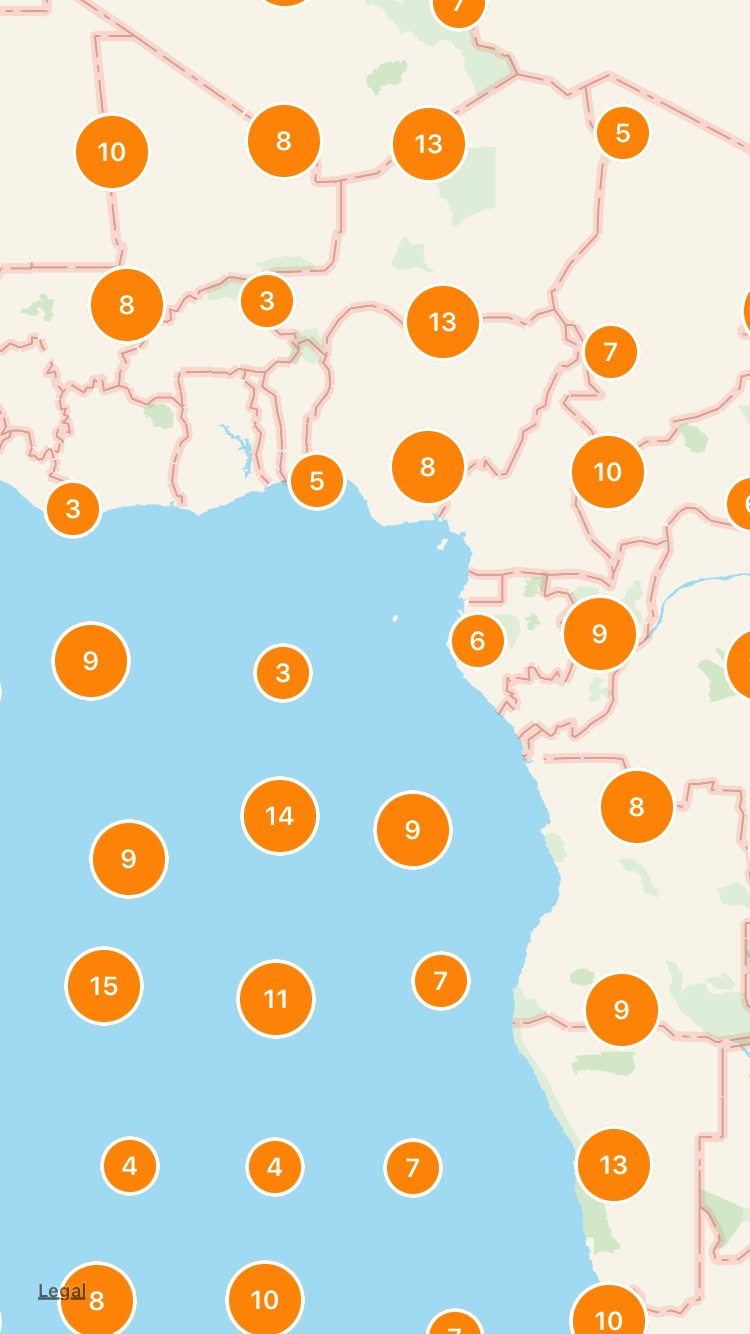
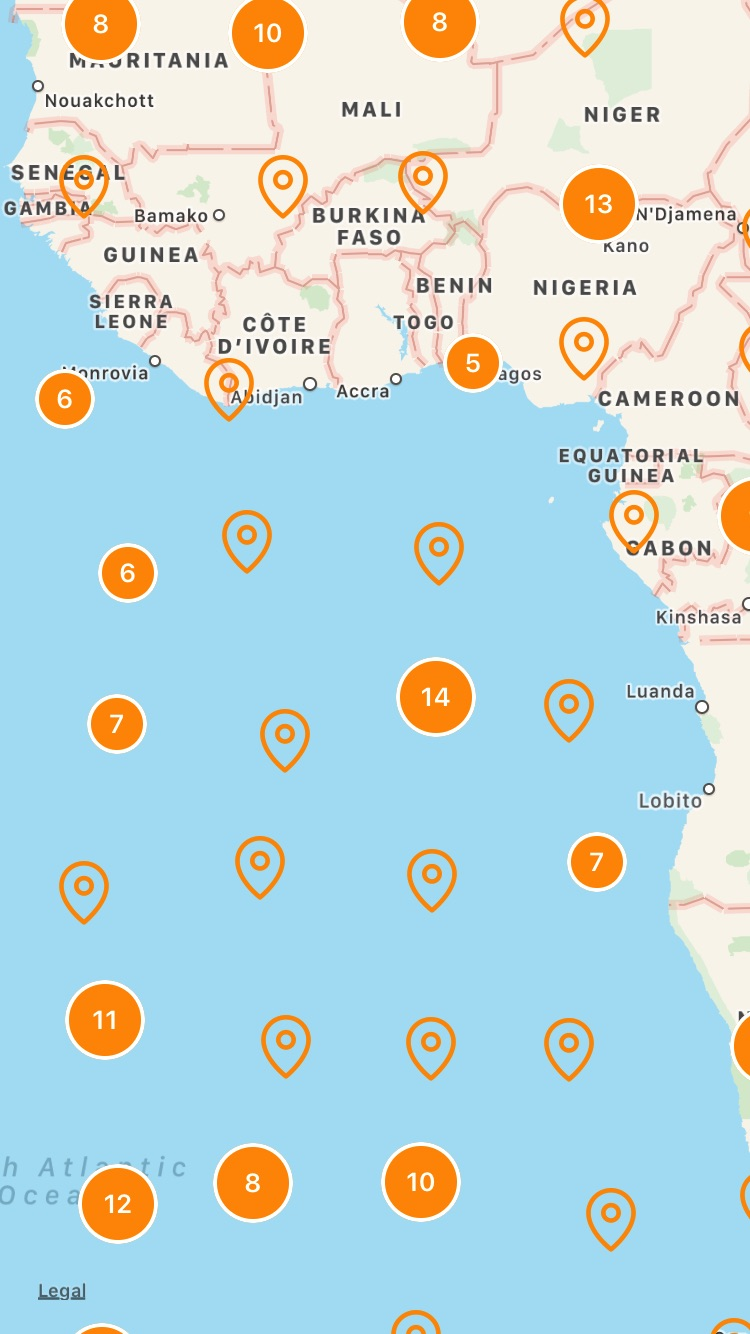
1.0.3

diff --git a/Example/ViewController.swift b/Example/ViewController.swift
@@ -19,9 +19,15 @@ class ViewController: UIViewController {
     override func viewDidLoad() {
         super.viewDidLoad()
         
-        let annotations: [Annotation] = (0..<1000).map { _ in
+        let annotations: [Annotation] = (0..<1000).map { i in
             let annotation = Annotation()
             annotation.coordinate = CLLocationCoordinate2D(latitude: drand48() * 80 - 40, longitude: drand48() * 80 - 40)
+            let color = UIColor(red: 255/255, green: 149/255, blue: 0/255, alpha: 1)
+            if i % 2 == 0 {
+                annotation.type = .color(color, radius: 25)
+            } else {
+                annotation.type = .image(UIImage(named: "pin")?.filled(with: color))
+            }
             return annotation
         }
         manager.add(annotations)
@@ -35,11 +41,15 @@ extension ViewController: MKMapViewDelegate {
     
     func mapView(_ mapView: MKMapView, viewFor annotation: MKAnnotation) -> MKAnnotationView? {
         let color = UIColor(red: 255/255, green: 149/255, blue: 0/255, alpha: 1)
-        if annotation is ClusterAnnotation {
+        if let annotation = annotation as? ClusterAnnotation {
             let identifier = "Cluster"
             var view = mapView.dequeueReusableAnnotationView(withIdentifier: identifier)
             if view == nil {
-                view = ClusterAnnotationView(annotation: annotation, reuseIdentifier: identifier, type: .color(color: color, radius: 25))
+                if let annotation = annotation.annotations.first as? Annotation, let type = annotation.type {
+                    view = ClusterAnnotationView(annotation: annotation, reuseIdentifier: identifier, type: type)
+                } else {
+                    view = ClusterAnnotationView(annotation: annotation, reuseIdentifier: identifier, type: .color(color, radius: 25))
+                }
             } else {
                 view?.annotation = annotation
             }
@@ -80,6 +90,26 @@ extension ViewController: MKMapViewDelegate {
             manager.reload(mapView, visibleMapRect: zoomRect)
             mapView.setVisibleMapRect(zoomRect, animated: true)
         }
+    }
+    
+}
+
+extension UIImage {
+    
+    func filled(with color: UIColor) -> UIImage {
+        UIGraphicsBeginImageContextWithOptions(size, false, scale)
+        color.setFill()
+        guard let context = UIGraphicsGetCurrentContext() else { return self }
+        context.translateBy(x: 0, y: size.height)
+        context.scaleBy(x: 1.0, y: -1.0);
+        context.setBlendMode(CGBlendMode.normal)
+        let rect = CGRect(x: 0, y: 0, width: size.width, height: size.height)
+        guard let mask = self.cgImage else { return self }
+        context.clip(to: rect, mask: mask)
+        context.fill(rect)
+        let newImage = UIGraphicsGetImageFromCurrentImageContext()!
+        UIGraphicsEndImageContext()
+        return newImage
     }
     
 }

diff --git a/Sources/Annotation.swift b/Sources/Annotation.swift
@@ -12,6 +12,7 @@ open class Annotation: NSObject, MKAnnotation {
     open var coordinate = CLLocationCoordinate2D()
     open var title: String?
     open var subtitle: String?
+    open var type: ClusterAnnotationType?
 }
 
 open class ClusterAnnotation: Annotation {
@@ -19,8 +20,8 @@ open class ClusterAnnotation: Annotation {
 }
 
 public enum ClusterAnnotationType {
-    case color(color: UIColor, radius: CGFloat)
-    case image(named: String)
+    case color(UIColor, radius: CGFloat)
+    case image(UIImage?)
 }
 
 open class ClusterAnnotationView: MKAnnotationView {
@@ -44,7 +45,7 @@ open class ClusterAnnotationView: MKAnnotationView {
         }
     }
     
-    public var type: ClusterAnnotationType = .color(color: .red, radius: 25) {
+    public var type: ClusterAnnotationType? {
         didSet {
             configure()
         }
@@ -72,10 +73,10 @@ open class ClusterAnnotationView: MKAnnotationView {
         let count = annotation.annotations.count
         
         switch type {
-        case let .image(named):
+        case let .image(image)?:
             backgroundColor = .clear
-            image = UIImage(named: named)
-        case let .color(color, radius):
+            self.image = image
+        case let .color(color, radius)?:
             backgroundColor	= color
             var diameter = radius * 2
             switch count {
@@ -86,20 +87,22 @@ open class ClusterAnnotationView: MKAnnotationView {
             default: break
             }
             frame = CGRect(origin: frame.origin, size: CGSize(width: diameter, height: diameter))
+            layer.borderColor = UIColor.white.cgColor
+            layer.borderWidth = 2
+            countLabel.font = .boldSystemFont(ofSize: 13)
+            countLabel.text = "\(count)"
+        default: break
         }
-        
-        layer.borderColor = UIColor.white.cgColor
-        layer.borderWidth = 2
-        countLabel.font = .boldSystemFont(ofSize: 13)
-        countLabel.text = "\(count)"
     }
     
     override open func layoutSubviews() {
         super.layoutSubviews()
         
-        layer.masksToBounds = true
-        layer.cornerRadius = image == nil ? bounds.width / 2 : 0
-        countLabel.frame = bounds
+        if case .color? = type {
+            layer.masksToBounds = true
+            layer.cornerRadius = image == nil ? bounds.width / 2 : 0
+            countLabel.frame = bounds
+        }
     }
     
 }

diff --git a/README.md b/README.md
@@ -51,6 +51,7 @@ let clusterManager = ClusterManager()
 ```swift
 let annotation = Annotation()
 annotation.coordinate = CLLocationCoordinate2D(latitude: latitude, longitude: longitude)
+annotation.type = .color(color, radius: 25) // .image(UIImage(named: "pin"))
 clusterManager.add(annotation)
 ```
 
@@ -60,7 +61,7 @@ clusterManager.add(annotation)
 func mapView(_ mapView: MKMapView, viewFor annotation: MKAnnotation) -> MKAnnotationView? {
     var view = mapView.dequeueReusableAnnotationView(withIdentifier: identifier)
     if view == nil {
-        view = ClusterAnnotationView(annotation: annotation, reuseIdentifier: identifier, type: .color(color: color, radius: radius))
+        view = ClusterAnnotationView(annotation: annotation, reuseIdentifier: identifier, type: type)
     } else {
         view?.annotation = annotation
     }
@@ -72,13 +73,9 @@ func mapView(_ mapView: MKMapView, viewFor annotation: MKAnnotation) -> MKAnnota
 
 ```swift
 func mapView(_ mapView: MKMapView, regionDidChangeAnimated animated: Bool) {
-    clusterManager.reload(mapView)
+    clusterManager.reload(mapView, visibleMapRect: mapView.visibleMapRect)
 }
 ```
-
-### Customization
-
-To use images for your annotation cluster view take a look at [Example2](Example/ViewController2.swift).
 
 ## Installation
 

diff --git a/CHANGELOG.md b/CHANGELOG.md
@@ -1,5 +1,10 @@
 # Change log
 
+## [Version 1.0.3](https://github.com/efremidze/Cluster/releases/tag/1.0.3)
+Released on 2017-04-29
+
+- Added image support
+
 ## [Version 1.0.2](https://github.com/efremidze/Cluster/releases/tag/1.0.2)
 Released on 2017-04-19
 
